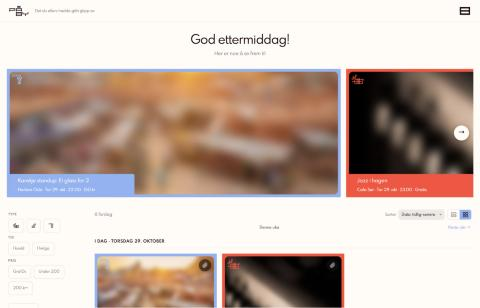
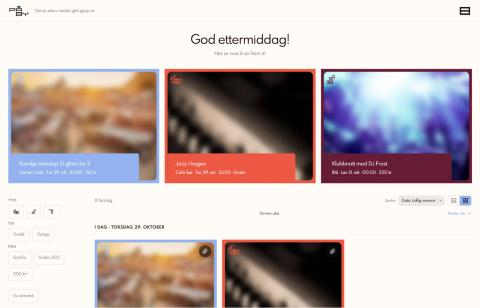
Utvalg: tre like brede kort på desktop, karusell kun på mobil

diff --git a/css/stil.css b/css/stil.css
@@ -2565,10 +2565,24 @@ body.modal-aapen {
 .utvalg-pil--forrige { left: var(--gap-s); }
 .utvalg-pil--neste   { right: var(--gap-s); }
 
+/* Desktop: de tre utvalgte deler bredden likt (en tredjedel hver), så alle
+   vises samtidig uten å scrolle. Karusellen (86% + titting) gjelder kun
+   under 900px. Gapet (16px) trekkes fra: 2 mellomrom delt på 3 kort. */
 @media (min-width: 900px) {
   .forside-utvalg > .utvalg-kort,
   .forside-utvalg > .utvalg-kort-skeleton {
-    flex-basis: 72%;
+    flex: 0 0 calc((100% - 2 * var(--gap-m)) / 3);
+  }
+
+  .forside-utvalg .utvalg-bilde-wrapper,
+  .forside-utvalg .kort-skeleton-bilde {
+    aspect-ratio: 4 / 3;
+  }
+
+  .forside-utvalg .utvalg-innhold {
+    width: 88%;
+    height: auto;
+    min-height: 60px;
   }
 }
 
